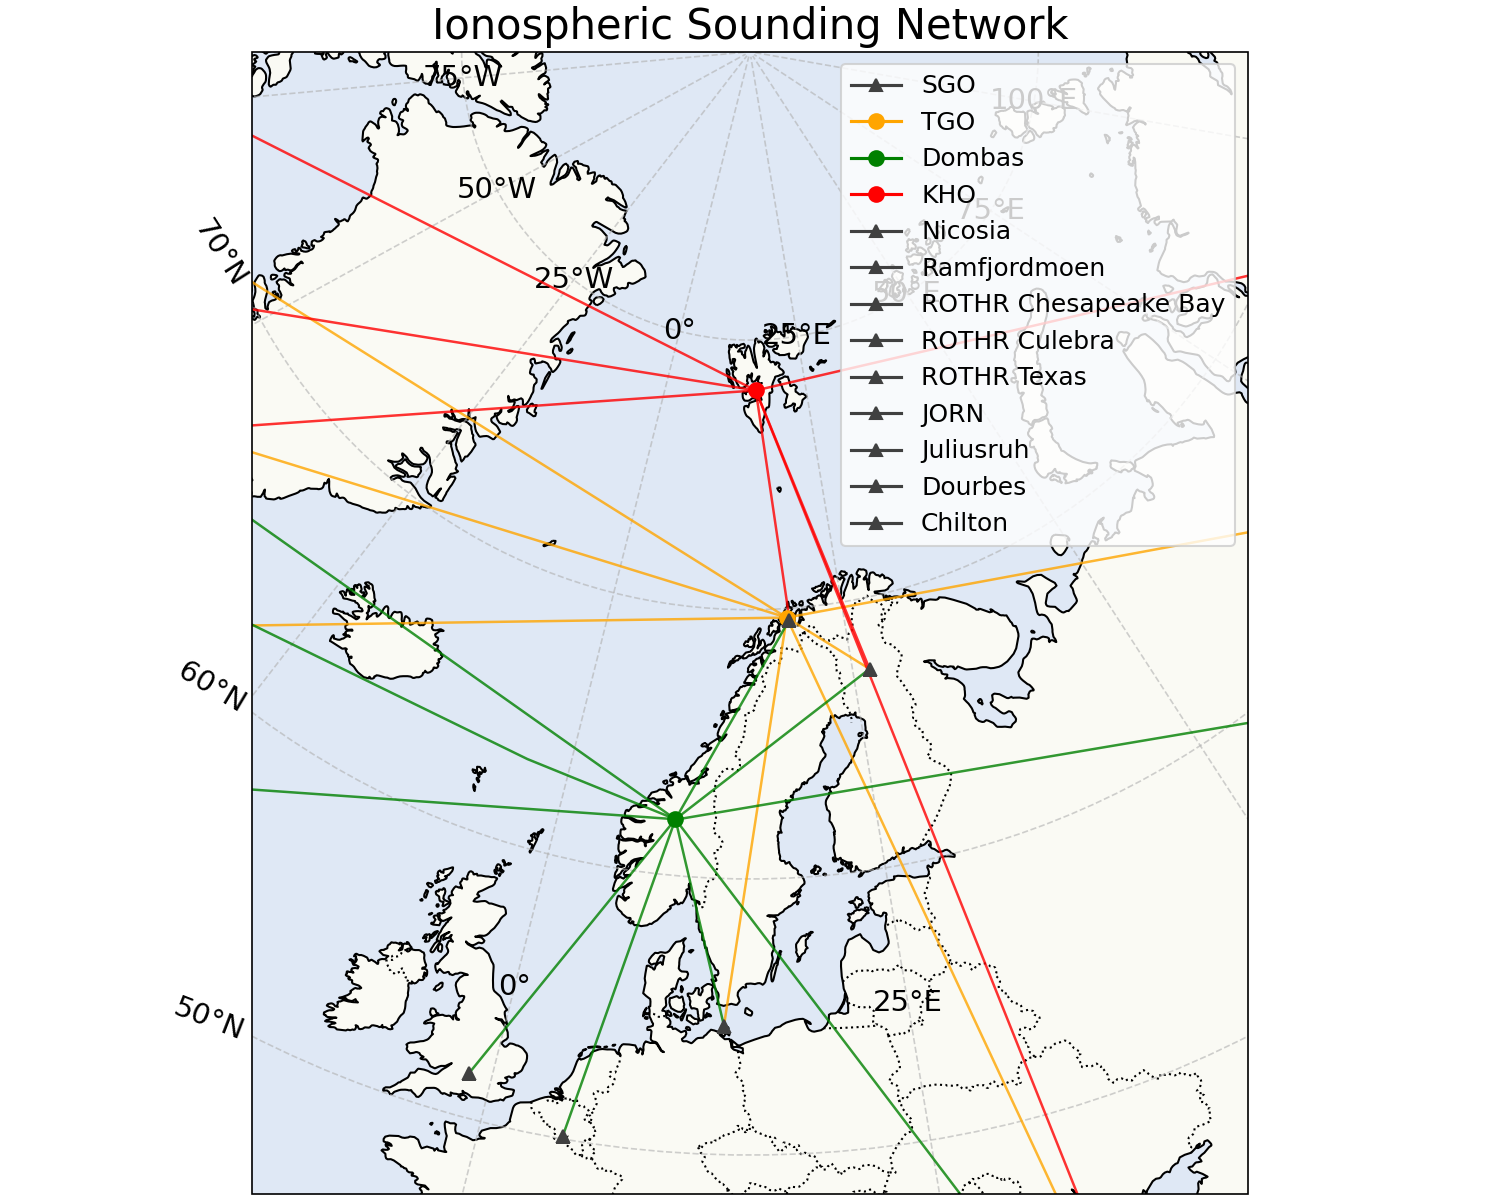
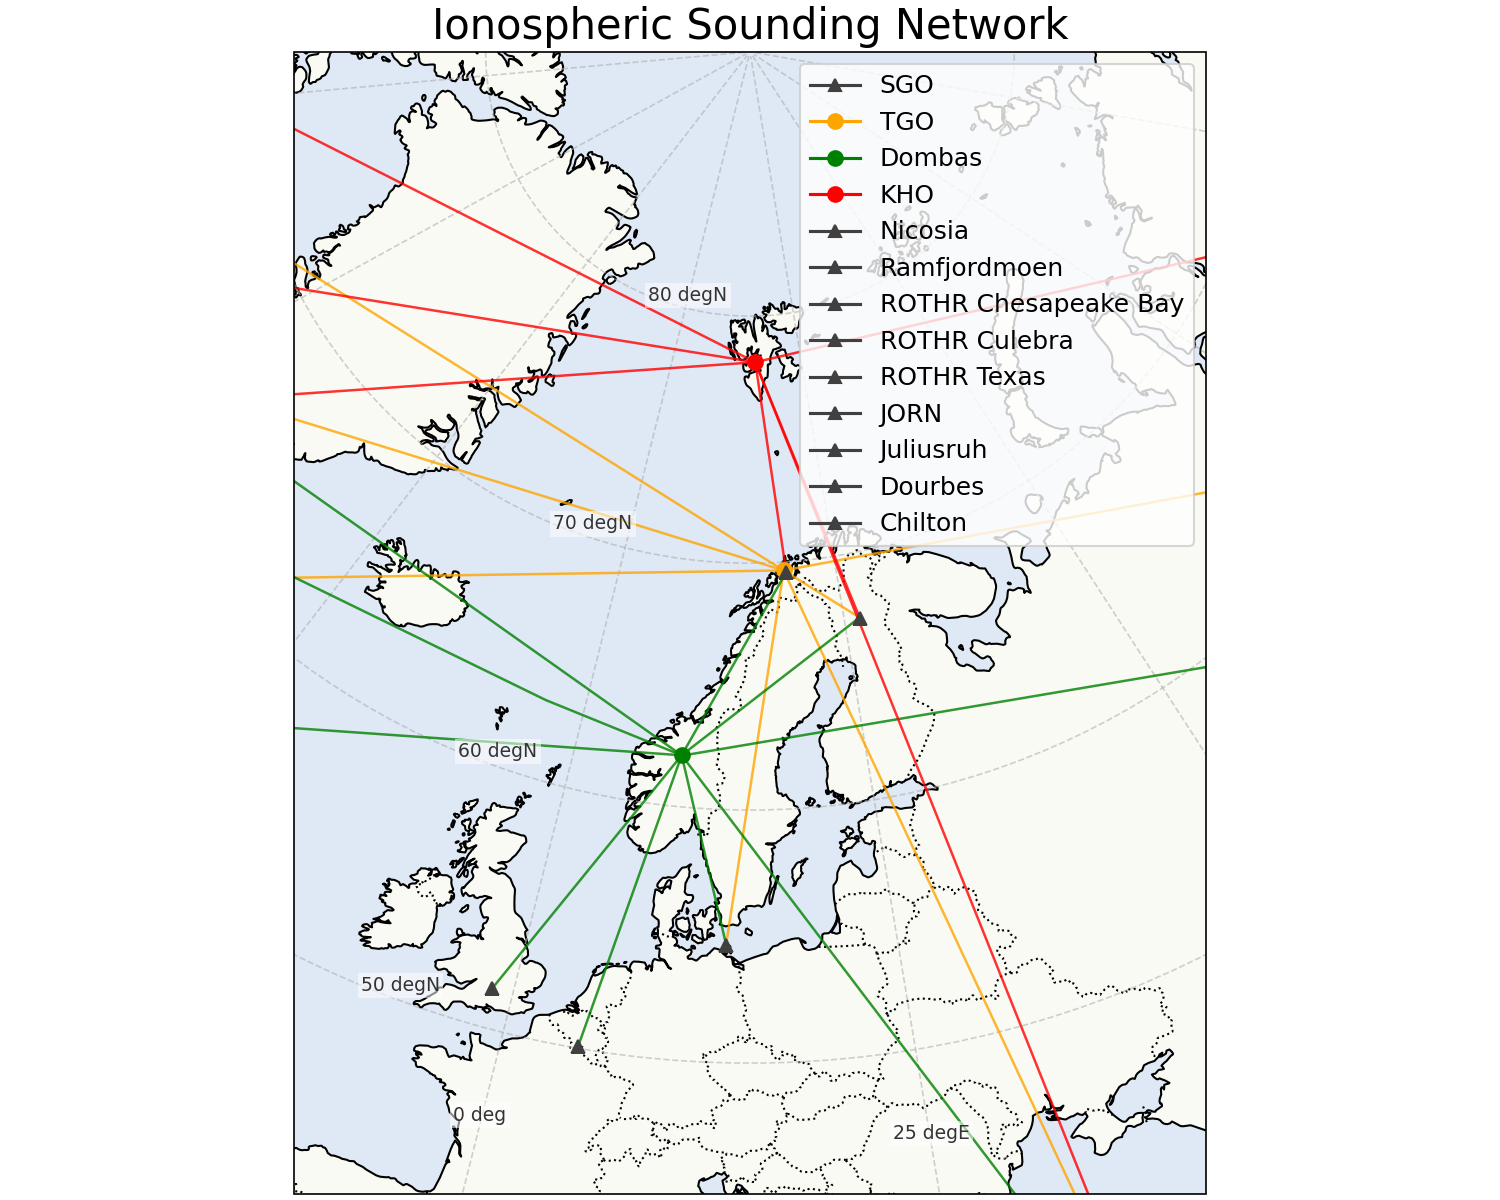
Clean up global station map projection

diff --git a/plot_map.py b/plot_map.py
@@ -1,11 +1,67 @@
 import matplotlib
 matplotlib.use("Agg")
 import matplotlib.pyplot as plt
+import matplotlib.ticker as mticker
 import chirp_config as cc
 import cartopy.crs as ccrs
 import cartopy.feature as cfeature
 
 import argparse
+
+
+def _format_lon(lon):
+    if lon == 0:
+        return "0 deg"
+    return f"{abs(lon):g} deg{'W' if lon < 0 else 'E'}"
+
+
+def _format_lat(lat):
+    if lat == 0:
+        return "0 deg"
+    return f"{abs(lat):g} deg{'S' if lat < 0 else 'N'}"
+
+
+def _add_inside_grid_labels(ax, extent, lon_step=60, lat_step=30):
+    lon_min, lon_max, lat_min, lat_max = extent
+    lon_values = range(
+        int((lon_min + lon_step - 1) // lon_step * lon_step),
+        int(lon_max) + 1,
+        lon_step,
+    )
+    lat_values = range(
+        int((lat_min + lat_step - 1) // lat_step * lat_step),
+        int(lat_max) + 1,
+        lat_step,
+    )
+    label_style = {
+        "fontsize": 9,
+        "color": "0.2",
+        "bbox": {"facecolor": "white", "alpha": 0.55, "edgecolor": "none", "pad": 1.5},
+        "clip_on": True,
+        "zorder": 20,
+    }
+    for lon in lon_values:
+        if lon_min < lon < lon_max:
+            ax.text(
+                lon,
+                lat_min + 0.03 * (lat_max - lat_min),
+                _format_lon(lon),
+                ha="center",
+                va="bottom",
+                transform=ccrs.PlateCarree(),
+                **label_style,
+            )
+    for lat in lat_values:
+        if lat_min < lat < lat_max:
+            ax.text(
+                lon_min + 0.02 * (lon_max - lon_min),
+                lat,
+                _format_lat(lat),
+                ha="left",
+                va="center",
+                transform=ccrs.PlateCarree(),
+                **label_style,
+            )
 
 
 def plot_map(conf, set_extent=True, ofname="map.png", extent=None, target_stations=None):
@@ -16,23 +72,31 @@ def plot_map(conf, set_extent=True, ofname="map.png", extent=None, target_statio
         "KHO": "red",
         "W2NAF": "blue",
     }
+    global_map = not set_extent and extent is None
     # Create map
-    fig = plt.figure(figsize=(10, 8), constrained_layout=True)
+    fig = plt.figure(figsize=(12, 5.5) if global_map else (10, 8), constrained_layout=True)
 
-    if extent is None:
+    if global_map:
+        extent = [-170, 170, -45, 85]
+        proj = ccrs.PlateCarree()
+    elif extent is None:
         central_longitude = 15
         central_latitude = 65
         standard_parallels = (55, 75)
+        proj = ccrs.LambertConformal(
+            central_longitude=central_longitude,
+            central_latitude=central_latitude,
+            standard_parallels=standard_parallels
+        )
     else:
         central_longitude = 0.5 * (extent[0] + extent[1])
         central_latitude = 0.5 * (extent[2] + extent[3])
         standard_parallels = (extent[2] + 5, extent[3] - 5)
-
-    proj = ccrs.LambertConformal(
-        central_longitude=central_longitude,
-        central_latitude=central_latitude,
-        standard_parallels=standard_parallels
-    )
+        proj = ccrs.LambertConformal(
+            central_longitude=central_longitude,
+            central_latitude=central_latitude,
+            standard_parallels=standard_parallels
+        )
     ax = plt.axes(projection=proj)
 
     # Add basic features
@@ -42,24 +106,23 @@ def plot_map(conf, set_extent=True, ofname="map.png", extent=None, target_statio
     ax.add_feature(cfeature.OCEAN,alpha=0.3)
 
     # Set extent
-    if set_extent:
-        ax.set_extent(extent or [-90, 40, 35, 90])
+    ax.set_extent(extent or [-90, 40, 35, 90], crs=ccrs.PlateCarree())
 
-    # ✅ Add gridlines
+    # Add gridlines and annotate coordinates inside the map frame.
     gl = ax.gridlines(
         crs=ccrs.PlateCarree(),
-        draw_labels=True,
+        draw_labels=False,
         linewidth=0.8,
         linestyle='--',
         alpha=0.6,
         zorder=10
     )
-
-    # Customize labels
-    gl.top_labels = False
-    gl.right_labels = False
-    gl.xlabel_style = {'size': 14}
-    gl.ylabel_style = {'size': 14}
+    if global_map:
+        gl.xlocator = mticker.FixedLocator(range(-120, 181, 60))
+        gl.ylocator = mticker.FixedLocator(range(-30, 91, 30))
+        _add_inside_grid_labels(ax, extent, lon_step=60, lat_step=30)
+    else:
+        _add_inside_grid_labels(ax, extent or [-90, 40, 35, 90], lon_step=25, lat_step=10)
 
     # Filter for the receiver stations shown on the live dashboard.
     if target_stations is None: